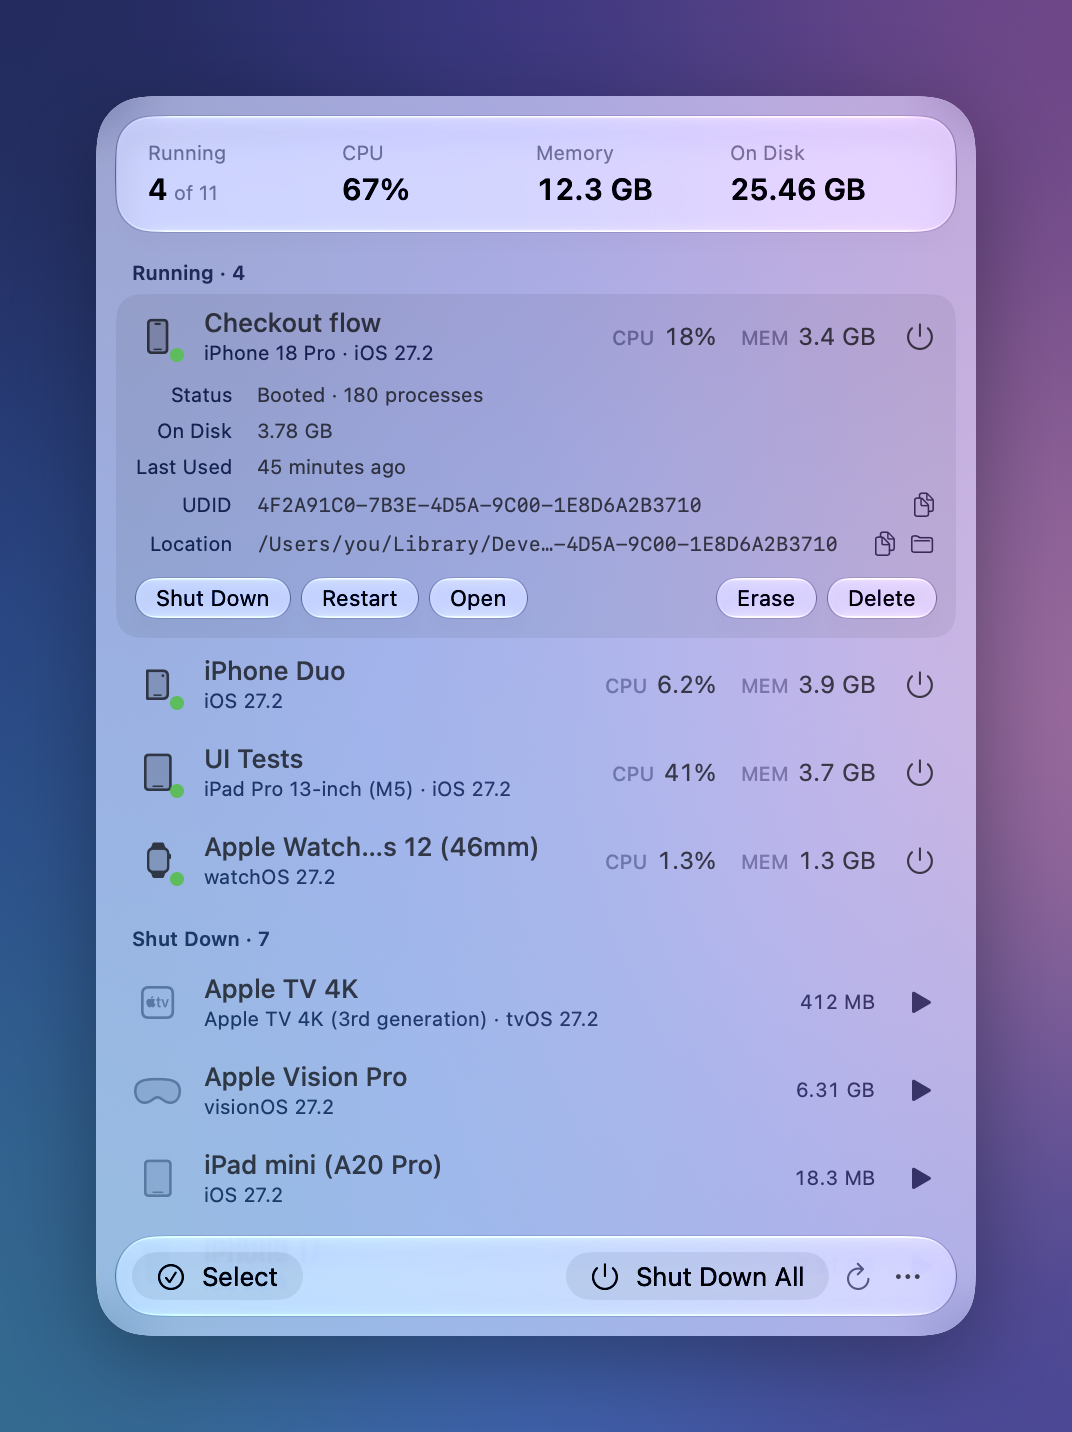
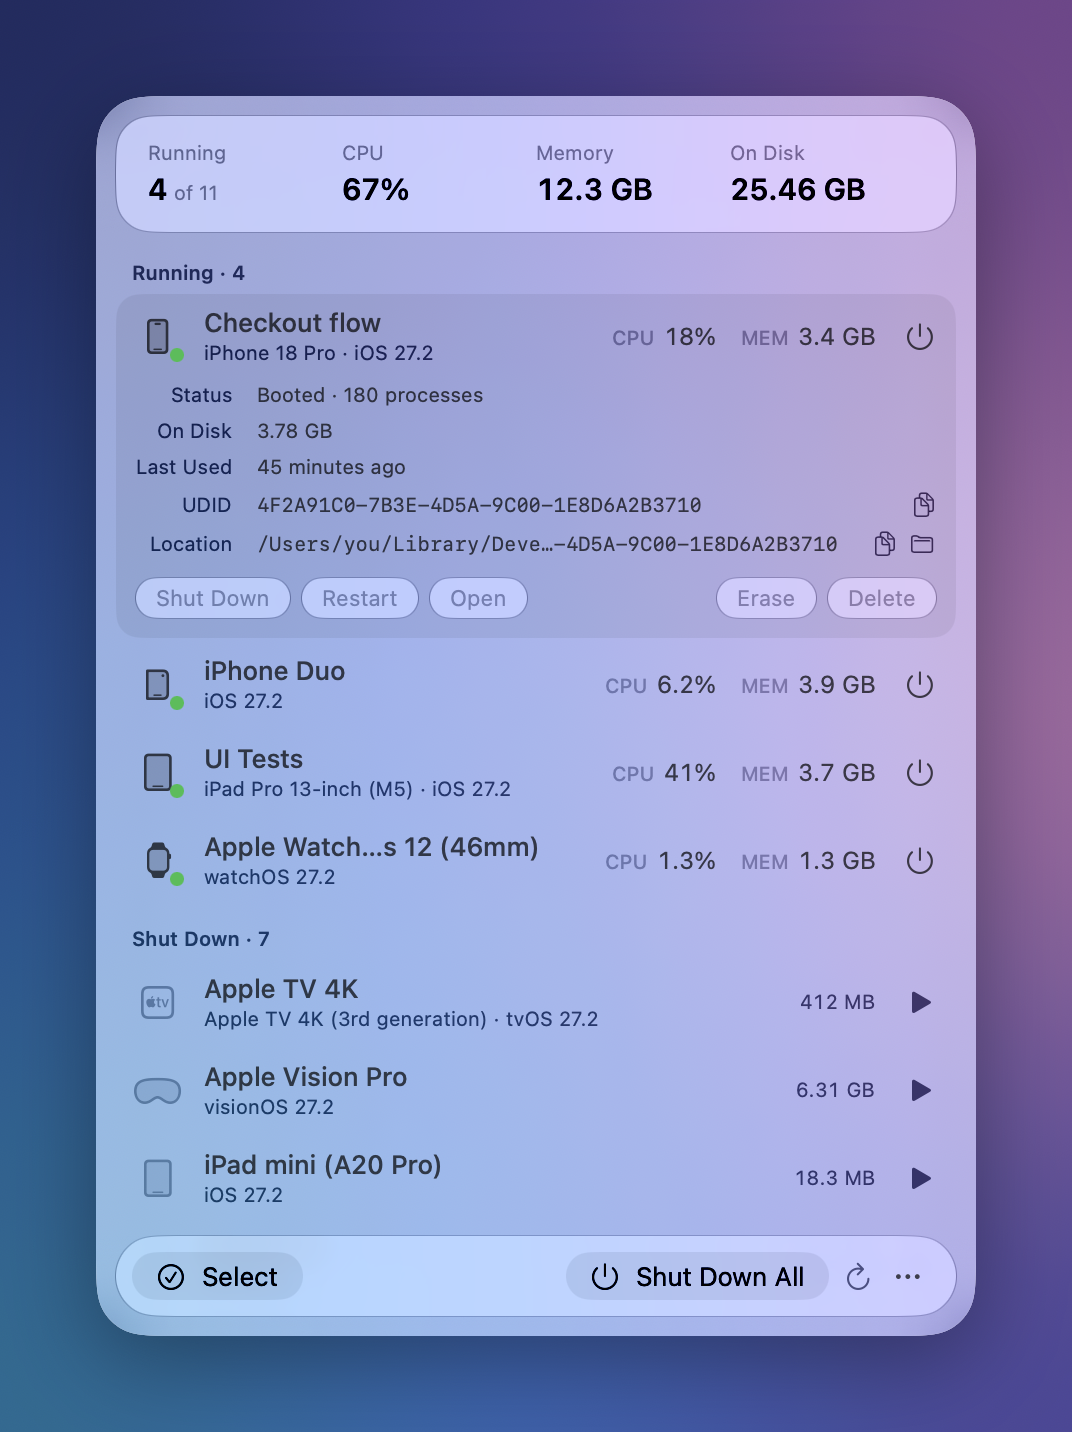
Fix blank overview screenshot
The panel and its backdrop were separate floating windows, so the
backdrop could come up on top and hide the panel on the first capture.
Make the panel a child of the backdrop so the order is fixed, and
regenerate the README images.

diff --git a/Sources/SimMonitor/DebugSnapshot.swift b/Sources/SimMonitor/DebugSnapshot.swift
@@ -64,6 +64,9 @@ enum Snapshot {
             )
             panel.setFrameOrigin(backdrop.frame.origin)
             NSApp.activate()
+            // A child window always stays above its parent; two separate floating windows
+            // can come up in either order.
+            backdrop.addChildWindow(panel, ordered: .above)
             panel.makeKeyAndOrderFront(nil)
             windows = [backdrop, panel]
 
